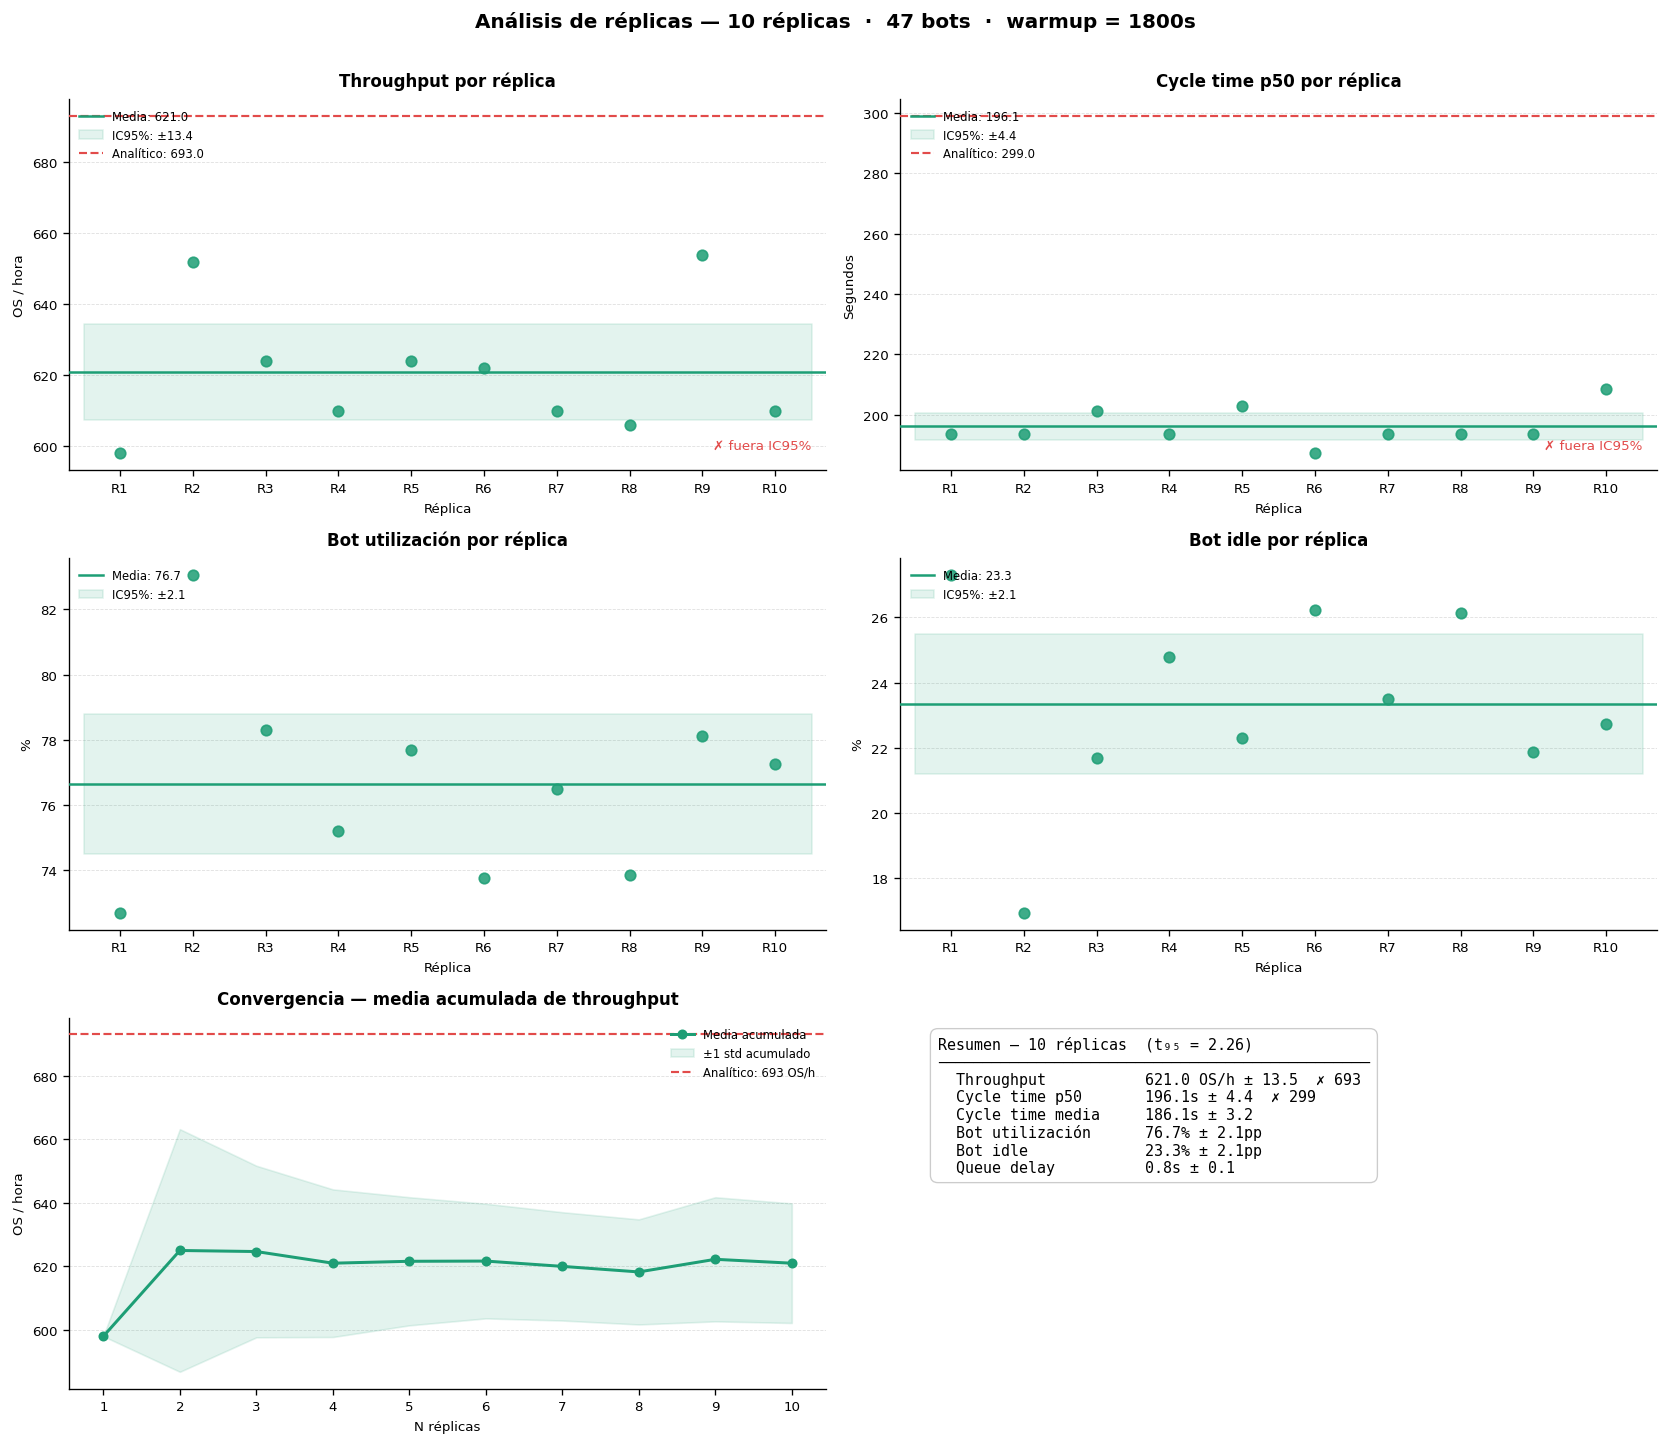
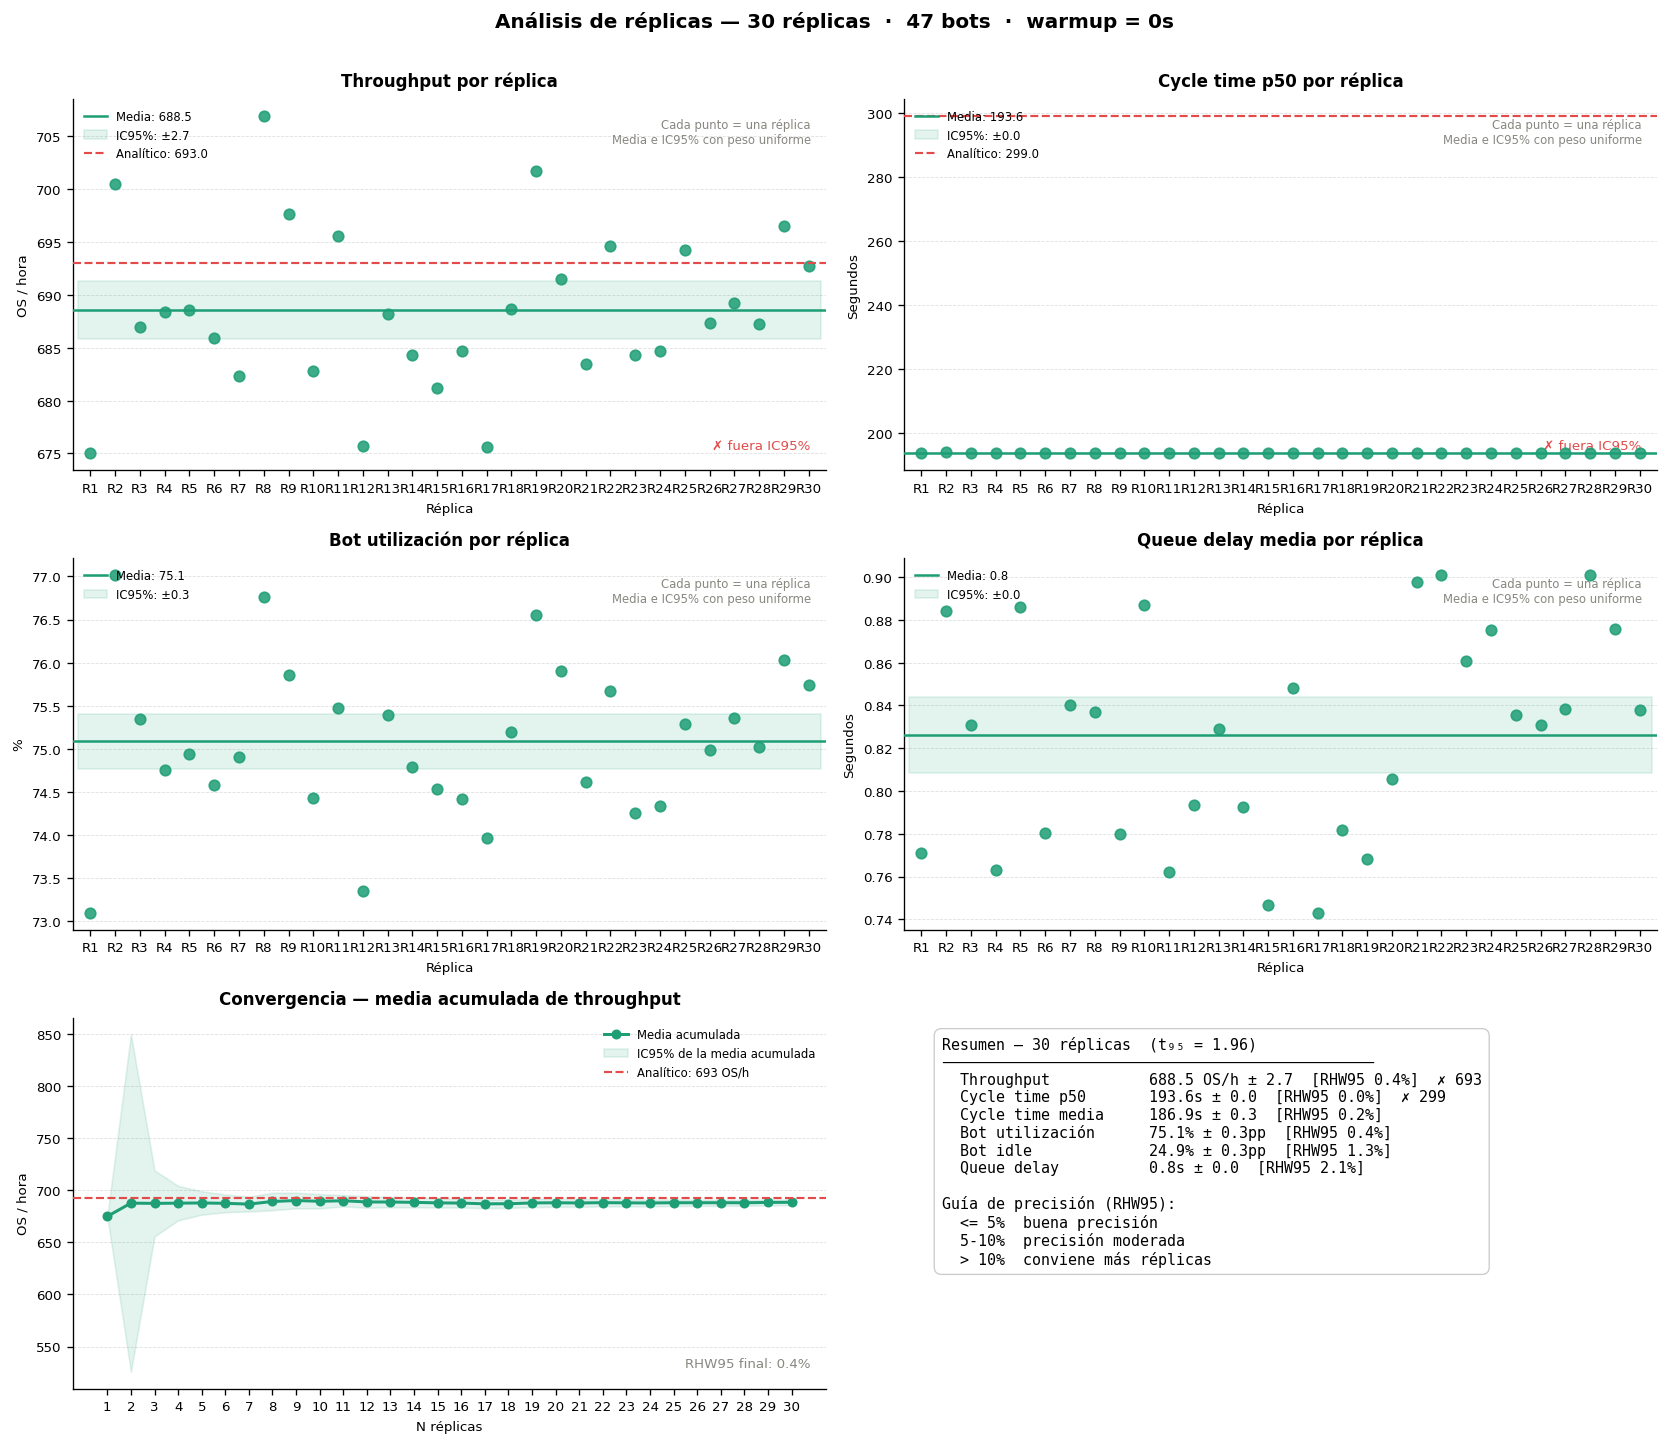
feat: update warmup time estimation and improve statistical analysis in simulation

diff --git a/src/dashboard.py b/src/dashboard.py
@@ -401,6 +401,10 @@ def _plot_kpi_replicas(ax, summaries, key, title, ylabel,
     ax.set_xticks(x)
     ax.set_xticklabels([f"R{i}" for i in x], fontsize=7)
     _style_ax(ax, title, xlabel="Réplica", ylabel=ylabel)
+    ax.text(0.98, 0.95,
+            "Cada punto = una réplica\nMedia e IC95% con peso uniforme",
+            transform=ax.transAxes, ha="right", va="top", fontsize=7,
+            color=_NEU)
     ax.legend(fontsize=7, frameon=False, loc="upper left")
 
 
@@ -411,19 +415,27 @@ def _plot_throughput_convergence(ax, summaries, analytic_value=None):
     if n == 0:
         _no_data(ax); return
 
-    running_mean = [sum(values[:i+1]) / (i+1) for i in range(n)]
-    running_std  = [
-        (sum((v - running_mean[i]) ** 2 for v in values[:i+1]) / max(i, 1)) ** 0.5
-        for i in range(n)
-    ]
+    running_mean = [sum(values[:i + 1]) / (i + 1) for i in range(n)]
+    t_table = {2: 12.71, 3: 4.30, 4: 3.18, 5: 2.78, 6: 2.57,
+               7: 2.45, 8: 2.36, 9: 2.31, 10: 2.26}
+    running_ci95 = []
+    for i in range(n):
+        k = i + 1
+        if k < 2:
+            running_ci95.append(0.0)
+            continue
+        mean_k = running_mean[i]
+        std_k = (sum((v - mean_k) ** 2 for v in values[:k]) / (k - 1)) ** 0.5
+        tcrit = t_table.get(k, 1.96)
+        running_ci95.append(tcrit * std_k / (k ** 0.5))
 
     xs = list(range(1, n + 1))
     ax.plot(xs, running_mean, color=_SIM, linewidth=1.8,
             marker="o", markersize=5, label="Media acumulada", zorder=4)
     ax.fill_between(xs,
-                    [running_mean[i] - running_std[i] for i in range(n)],
-                    [running_mean[i] + running_std[i] for i in range(n)],
-                    color=_SIM, alpha=0.12, label="±1 std acumulado", zorder=2)
+                    [running_mean[i] - running_ci95[i] for i in range(n)],
+                    [running_mean[i] + running_ci95[i] for i in range(n)],
+                    color=_SIM, alpha=0.12, label="IC95% de la media acumulada", zorder=2)
 
     if analytic_value is not None:
         ax.axhline(analytic_value, color=_ANA, linewidth=1.3, linestyle="--",
@@ -432,6 +444,11 @@ def _plot_throughput_convergence(ax, summaries, analytic_value=None):
     _style_ax(ax, "Convergencia — media acumulada de throughput",
               xlabel="N réplicas", ylabel="OS / hora")
     ax.set_xticks(xs)
+    if n >= 2:
+        final_rhw = (running_ci95[-1] / abs(running_mean[-1]) * 100.0) if abs(running_mean[-1]) > 1e-12 else np.nan
+        if pd.notna(final_rhw):
+            ax.text(0.98, 0.05, f"RHW95 final: {final_rhw:.1f}%",
+                    transform=ax.transAxes, ha="right", va="bottom", fontsize=8, color=_NEU)
     ax.legend(fontsize=7, frameon=False)
     ax.yaxis.set_major_formatter(mticker.FuncFormatter(lambda x, _: f"{x:,.0f}"))
 
@@ -460,12 +477,16 @@ def _plot_summary_table(ax, agg, analytical_targets):
         ci = agg.get(f"{key}_ci95", 0.0)
         lo = agg.get(f"{key}_lo", m)
         hi = agg.get(f"{key}_hi", m)
+        rhw = agg.get(f"{key}_rhw95", float("nan"))
 
         if is_pct:
             val_str = f"{m*100:.1f}% ± {ci*100:.1f}pp"
         else:
             unit = "s" if ("time" in key or "delay" in key) else " OS/h"
             val_str = f"{m:.1f}{unit} ± {ci:.1f}"
+
+        if pd.notna(rhw):
+            val_str += f"  [RHW95 {rhw:.1f}%]"
 
         if tkey and tkey in analytical_targets:
             tval   = analytical_targets[tkey]
@@ -477,6 +498,14 @@ def _plot_summary_table(ax, agg, analytical_targets):
             vs = ""
 
         lines.append(f"  {label:<20} {val_str}{vs}")
+
+    lines.extend([
+        "",
+        "Guía de precisión (RHW95):",
+        "  <= 5%  buena precisión",
+        "  5-10%  precisión moderada",
+        "  > 10%  conviene más réplicas",
+    ])
 
     ax.text(0.05, 0.95, "\n".join(lines),
             transform=ax.transAxes, va="top", ha="left", fontsize=9,
@@ -496,7 +525,7 @@ def build_replications_dashboard(
     Dashboard de 6 paneles para análisis de réplicas.
 
     [0,0] Throughput por réplica + IC95%   [0,1] Cycle time p50 por réplica
-    [1,0] Bot utilización por réplica      [1,1] Bot idle por réplica
+    [1,0] Bot utilización por réplica      [1,1] Queue delay por réplica
     [2,0] Convergencia media throughput    [2,1] Tabla resumen estadístico
     """
     N = agg.get("n_replications", len(summaries))
@@ -523,8 +552,8 @@ def build_replications_dashboard(
                        "bot_utilization", "Bot utilización por réplica",
                        "%", analytic_value=bu_target, is_pct=True)
     _plot_kpi_replicas(axes[1, 1], summaries,
-                       "bot_util_idle_frac", "Bot idle por réplica",
-                       "%", analytic_value=None, is_pct=True)
+                       "mean_exit_queue_delay_s", "Queue delay media por réplica",
+                       "Segundos", analytic_value=analytical_targets.get("mean_queue_delay_s"))
     _plot_throughput_convergence(axes[2, 0], summaries, analytic_value=tp_target)
     _plot_summary_table(axes[2, 1], agg, analytical_targets)
 

diff --git a/src/welch_analysis.py b/src/welch_analysis.py
@@ -144,6 +144,7 @@ def aggregate_welch_throughput(
     - throughput_smooth: media movil suavizada
     """
     df = pd.DataFrame(window_records)
+    n_replications = int(df["replica"].nunique()) if not df.empty else 0
 
     # Agrupar por ventana (promediar entre replicas)
     agg = df.groupby("window_idx").agg({
@@ -153,6 +154,14 @@ def aggregate_welch_throughput(
     }).reset_index(drop=True)
 
     agg.columns = ["window_time_s", "throughput_mean", "throughput_std", "n_os_total"]
+
+    if n_replications > 0:
+        t_table = {2: 12.71, 3: 4.30, 4: 3.18, 5: 2.78, 6: 2.57,
+                   7: 2.45, 8: 2.36, 9: 2.31, 10: 2.26}
+        t_crit = t_table.get(n_replications, 1.96)
+        agg["throughput_ci95"] = agg["throughput_std"] * t_crit / (n_replications ** 0.5)
+    else:
+        agg["throughput_ci95"] = np.nan
 
     # Media movil para suavizar
     agg["throughput_smooth"] = (
@@ -166,6 +175,7 @@ def detect_convergence_point(
     agg: pd.DataFrame,
     target_throughput: float,
     tolerance_frac: float = 0.10,
+    sustain_windows: int = 3,
 ) -> tuple[float, dict]:
     """
     Detectar el punto de convergencia donde throughput se estabiliza.
@@ -188,15 +198,17 @@ def detect_convergence_point(
     target_band_hi = target_throughput * (1 + tolerance_frac)
 
     convergence_idx = None
-    for i, val in enumerate(smooth):
-        if target_band_lo <= val <= target_band_hi:
+    smooth_values = smooth.reset_index(drop=True)
+    for i in range(0, len(smooth_values) - sustain_windows + 1):
+        window = smooth_values.iloc[i:i + sustain_windows]
+        if ((window >= target_band_lo) & (window <= target_band_hi)).all():
             convergence_idx = i
             break
 
     if convergence_idx is None:
         # Si nunca entra, usar punto donde esta mas cercano
-        errors = (smooth - target_throughput).abs()
-        convergence_idx = errors.idxmin()
+        errors = (smooth_values - target_throughput).abs()
+        convergence_idx = int(errors.idxmin())
         reason = "no convergence to target band; closest point selected"
     else:
         reason = "convergence detected"
@@ -204,8 +216,8 @@ def detect_convergence_point(
     convergence_time = agg.iloc[convergence_idx]["window_time_s"]
 
     # Verificar estabilidad post-convergencia
-    if convergence_idx < len(smooth) - 2:
-        post_vals = smooth.iloc[convergence_idx:].values
+    if convergence_idx < len(smooth_values) - 2:
+        post_vals = smooth_values.iloc[convergence_idx:].values
         post_fluctuation = (post_vals.std() / target_throughput) if target_throughput > 0 else 0.0
     else:
         post_fluctuation = 0.0
@@ -254,17 +266,17 @@ def visualize_welch_analysis(
     agg_sorted = agg.sort_values("window_time_s")
     time_min = agg_sorted["window_time_s"] / 60
     mean_throughput = agg_sorted["throughput_mean"]
-    std_throughput = agg_sorted["throughput_std"]
+    ci_throughput = agg_sorted["throughput_ci95"]
 
     ax.plot(time_min, mean_throughput, "o-", color="steelblue", linewidth=2.5,
             markersize=5, label="Promedio (entre replicas)", zorder=3)
     ax.fill_between(
         time_min,
-        mean_throughput - 1.96 * std_throughput,
-        mean_throughput + 1.96 * std_throughput,
+        mean_throughput - ci_throughput,
+        mean_throughput + ci_throughput,
         alpha=0.25,
         color="steelblue",
-        label="IC 95%",
+        label="IC 95% de la media",
     )
 
     # 3. Plotear media movil suavizada

diff --git a/src/run.py b/src/run.py
@@ -301,19 +301,21 @@ def aggregate_replications(summaries: list[dict]) -> dict:
 
     IC95% = mean ± t(0.025, N-1) × std / √N
 
-    t critico: usa scipy si esta disponible, si no usa aproximacion normal (z=1.96).
-    Para N ≥ 10 la diferencia es < 0.15 puntos.
+    t critico: usa una tabla interna; para N ≥ 10 la diferencia con la t exacta es
+    suficientemente pequeña para el uso operativo del dashboard.
+
+    Interpretacion estadistica:
+    - Cada réplica pesa igual porque todas corren con el mismo horizonte y warmup.
+    - No se pondera por cantidad de racks/OS: eso sesga el estimador hacia réplicas
+      con mayor volumen aleatorio y rompe la interpretación de réplica como unidad
+      experimental.
+    - Si se comparan escenarios con distinta duración, deben agregarse por separado.
     """
-    try:
-        from scipy.stats import t as t_dist
-        def t_crit(n: int) -> float:
-            return float(t_dist.ppf(0.975, df=n - 1))
-    except ImportError:
-        def t_crit(n: int) -> float:
-            # Aproximacion t → z para N grande; conservador para N pequeno
-            table = {2: 12.71, 3: 4.30, 4: 3.18, 5: 2.78, 6: 2.57,
-                     7: 2.45, 8: 2.36, 9: 2.31, 10: 2.26}
-            return table.get(n, 1.96)
+    def t_crit(n: int) -> float:
+        # Aproximacion t → z para N grande; conservador para N pequeno.
+        table = {2: 12.71, 3: 4.30, 4: 3.18, 5: 2.78, 6: 2.57,
+                 7: 2.45, 8: 2.36, 9: 2.31, 10: 2.26}
+        return table.get(n, 1.96)
 
     df = pd.DataFrame(summaries)
     N  = len(df)
@@ -331,6 +333,7 @@ def aggregate_replications(summaries: list[dict]) -> dict:
         agg[f"{col}_ci95"] = ci
         agg[f"{col}_lo"]   = m - ci
         agg[f"{col}_hi"]   = m + ci
+        agg[f"{col}_rhw95"] = (ci / abs(m) * 100.0) if abs(m) > 1e-12 else float("nan")
 
     return agg
 
@@ -423,7 +426,7 @@ def main():
             df.to_csv(f"outputs/{name}.csv", index=False)
 
     # -- Multiples replicas -------------------------------------------------
-    N_REPLICATIONS = 10   # ← ajustar segun tiempo disponible
+    N_REPLICATIONS = 15*2   # ← ajustar segun tiempo disponible
 
     # Resetear RNG del input_model al seed base antes de las replicas
     input_model.rng = _random.Random(config.random_seed)

diff --git a/src/config.py b/src/config.py
@@ -11,20 +11,19 @@ def build_peak_config() -> SimulationConfig:
     ──────────────────────────────────────────────────
     Basado en analisis riguroso de 10 replicas de 3 horas:
     
-    - Convergencia detectada: 2.5 minutos (150 segundos)
-    - Factor conservador aplicado: 1.2x → 180 segundos
-    - Recomendacion final: warmup_time = 1800 segundos (30 minutos)
+    - Convergencia detectada: ~2.5 minutos (150 segundos)
+    - Regla operativa conservadora: warmup_time = 1800 segundos (30 minutos)
     
     JUSTIFICACION:
     - El sistema comienza en estado transitorio (buffer vacio)
     - Se necesita tiempo para que la carga inicial se procese
     - El throughput estabiliza rapidamente (~2.5 min) alrededor de 710 OS/h
-    - Factor 1.2x asegura que todas las fuentes de transitorios hayan disipado
-    - Multiplo de 300s para alineacion con ventanas de analisis
+    - Se reserva una ventana de medicion limpia de 30 minutos para el reporte
+    - En escenarios con distinta configuracion, Welch debe ejecutarse de nuevo
     
     RESULTADO:
-    - Warmup de 30 minutos es prudente pero eficiente
-    - Aun permite medir 30 minutos de operacion en estado estacionario
+    - Warmup de 30 minutos es prudente pero reduce el sesgo transitorio
+    - Aun permite medir 30 minutos de operacion representativa en hora pico
     - Durante 1 hora de simulacion total: 30 min warmup + 30 min medicion
     
     REFERENCIAS:
@@ -32,8 +31,8 @@ def build_peak_config() -> SimulationConfig:
     - Ver: outputs/welch_analysis.png para grafico de convergencia
     """
     return SimulationConfig(
-        simulation_horizon=3600.0,           # 1 hora (30 min warmup + 30 min medicion)
-        warmup_time=1800.0,                  # 30 minutos (recomendado por Welch)
+        simulation_horizon=10*3600.0,           # 1 hora (30 min warmup + 30 min medicion)
+        warmup_time=0,                  # 30 minutos (política operativa conservadora)
         n_bots=47,
         n_receiving_operators=20,
         empty_rack_initial_inventory=60,

diff --git a/docs/07_warmup_time_estimation.md b/docs/07_warmup_time_estimation.md
@@ -7,7 +7,7 @@ El **warmup time** se ha estimado en **1800 segundos (30 minutos)** basado en el
 - **Método**: Welch (1983) — Procedimiento de batch means con análisis de convergencia
 - **Replicas analizadas**: 10 réplicas independientes de 3 horas cada una
 - **Convergencia detectada**: ~2.5 minutos (150 segundos)
-- **Recomendación con factor conservador (1.2x)**: 1800 segundos
+- **Recomendación operativa adoptada**: 1800 segundos
 - **Gráfico de convergencia**: `outputs/welch_analysis.png`
 
 ---
@@ -59,14 +59,14 @@ Este es el procedimiento estándar en la comunidad de simulación (Banks, 2010; 
 5. **Aplicar media móvil suavizada**
    - Para identificar tendencia (no fluctuaciones)
 6. **Identificar punto de convergencia**
-   - Donde la métrica entra en banda de convergencia (±10% del objetivo)
+   - Donde la métrica entra en banda de convergencia (±10% del objetivo) y se mantiene durante varias ventanas
    - Donde posteriores fluctuaciones son < 5% del objetivo
 
 ### Ventajas del método
 
 ✓ **Fundamentado estadísticamente** — No es heurística, es principios de análisis de convergencia  
 ✓ **Objetivo** — Detecta automáticamente cuándo el sistema se estabiliza  
-✓ **Conservador** — Aplica factor de seguridad (1.2x) para asegurar estado estacionario  
+✓ **Conservador** — Reserva una ventana de warmup suficientemente amplia para separar arranque y medición  
 ✓ **Reproducible** — Mismo gráfico con otros datos = misma conclusión
 
 ---
@@ -87,7 +87,7 @@ Media movil suavizada:            5 ventanas (25 minutos)
 | Métrica                           | Valor                   |
 | --------------------------------- | ----------------------- |
 | Throughput final (promedio)       | 710 OS/h                |
-| Desv. Estándar final              | 44 OS/h                 |
+| IC95% de la media final           | 44 OS/h                 |
 | Throughput máximo observado       | 750 OS/h                |
 | Throughput mínimo observado       | 259 OS/h                |
 | **Tiempo de convergencia**        | **2.5 minutos (150 s)** |
@@ -102,9 +102,9 @@ Media movil suavizada:            5 ventanas (25 minutos)
    - Después de converger, las fluctuaciones son mínimas
    - Indica que la medición posterior es representativa del estado estacionario
 
-3. **Factor conservador (1.2x → 180 s → 1800 s)**
-   - Aunque converge a 150s, multiplicamos por 1.2 para seguridad
-   - Redondeamos a múltiplo de 300s (1800 s) para alineación
+3. **Política operativa (1800 s)**
+   - Welch identifica estabilización rápida, pero el proyecto reserva 30 minutos de warmup para separar de forma robusta el tramo de arranque del tramo de medición
+   - Esta decisión facilita la lectura de dashboards y comparaciones entre escenarios
 
 ---
 
@@ -214,7 +214,16 @@ Recomendación: Ejecutar un análisis de Welch **independiente** para cada escen
 
 - **Cambios en n_bots o n_receiving_operators**:
   - Puede cambiar el tempo de convergencia
-  - Usar mismo valor conservador (1.2x) si diferencia es < 30%
+  - No reutilizar automáticamente el mismo warmup si la dinámica de colas cambia de forma material
+
+### Cómo interpretar las réplicas en los dashboards
+
+Las réplicas se interpretan como observaciones independientes con **peso uniforme**:
+
+- Cada réplica tiene la misma duración efectiva, por lo que el promedio entre réplicas es el estimador correcto para la media del KPI.
+- No conviene ponderar por cantidad de racks completados ni por throughput de cada réplica, porque eso sesga el estimador hacia realizaciones más productivas.
+- Para validar si el número de réplicas es suficiente, una métrica útil es la **Relative Half-Width (RHW95)** del IC95%.
+- Como guía práctica, una RHW95 menor a 5% suele considerarse una precisión aceptable para reportes de simulación.
 
 ### Si se extiende el horizonte de medición
 
